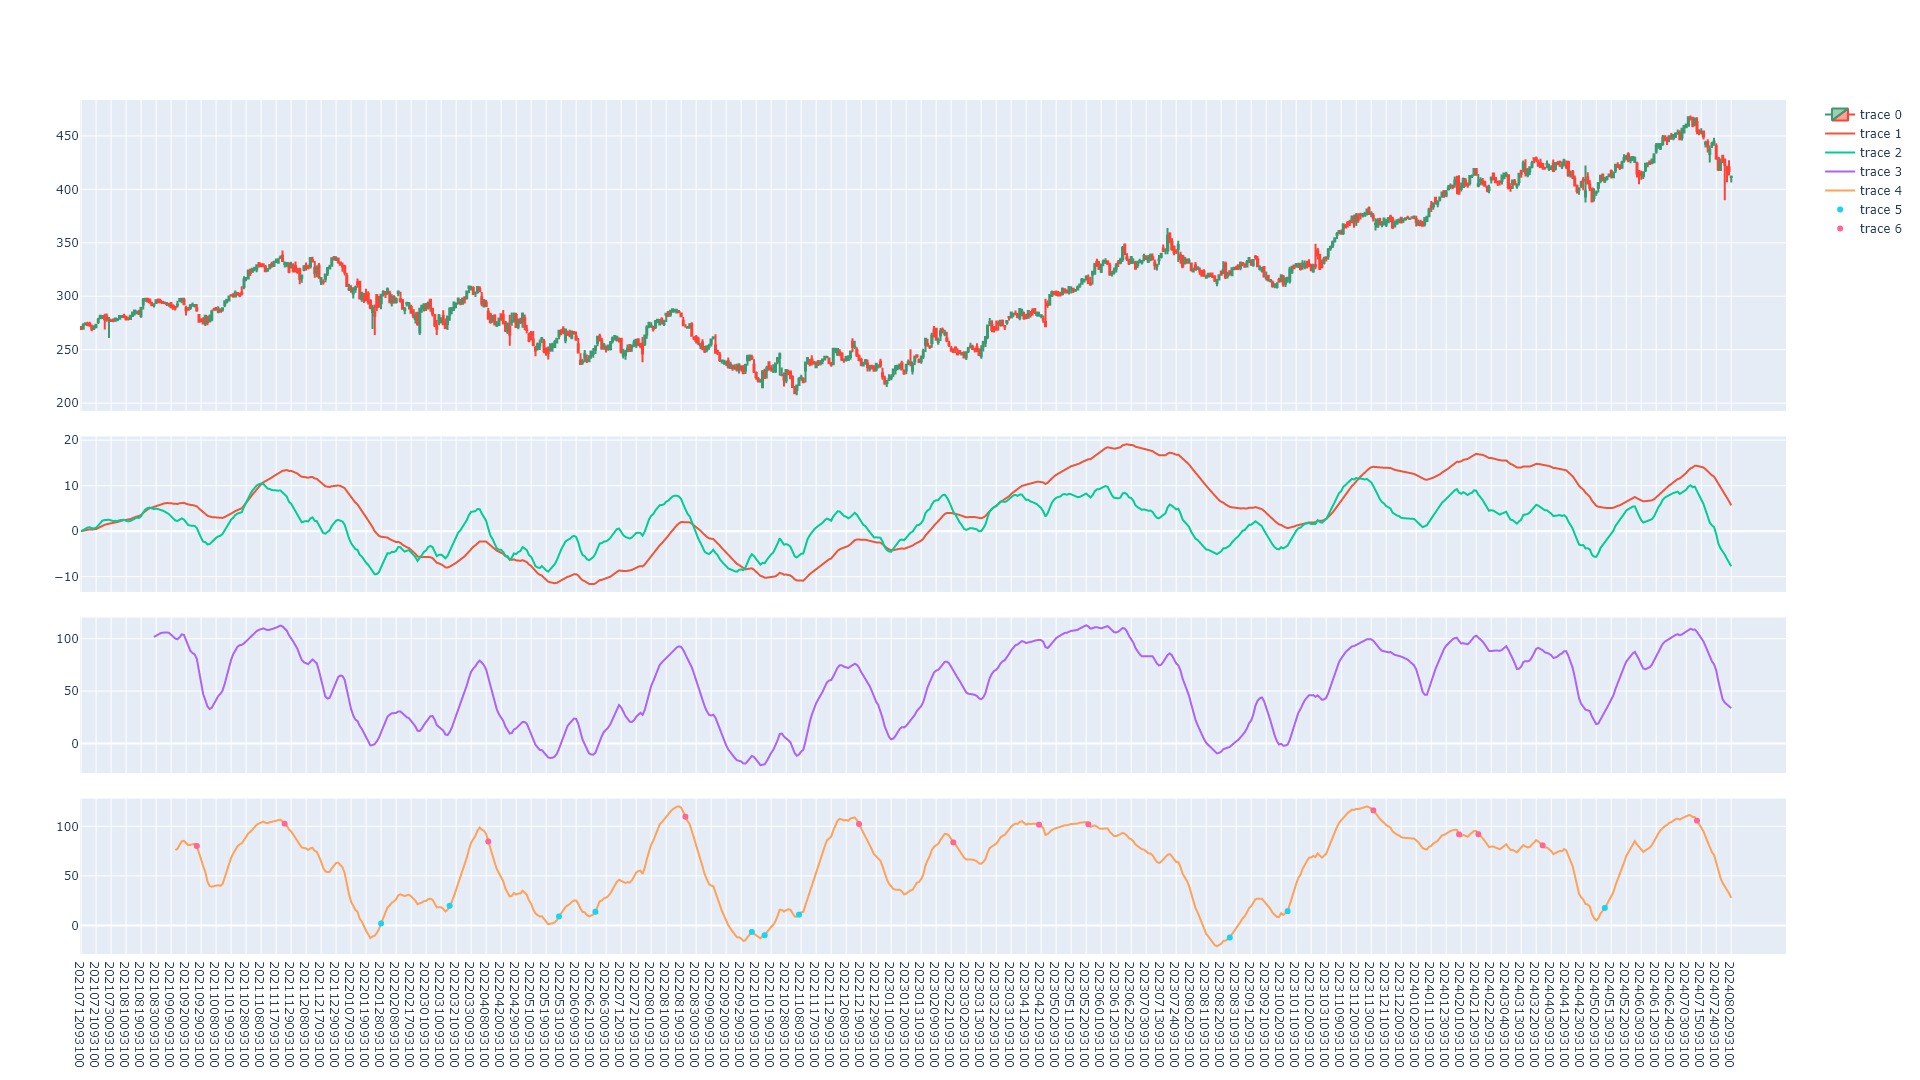
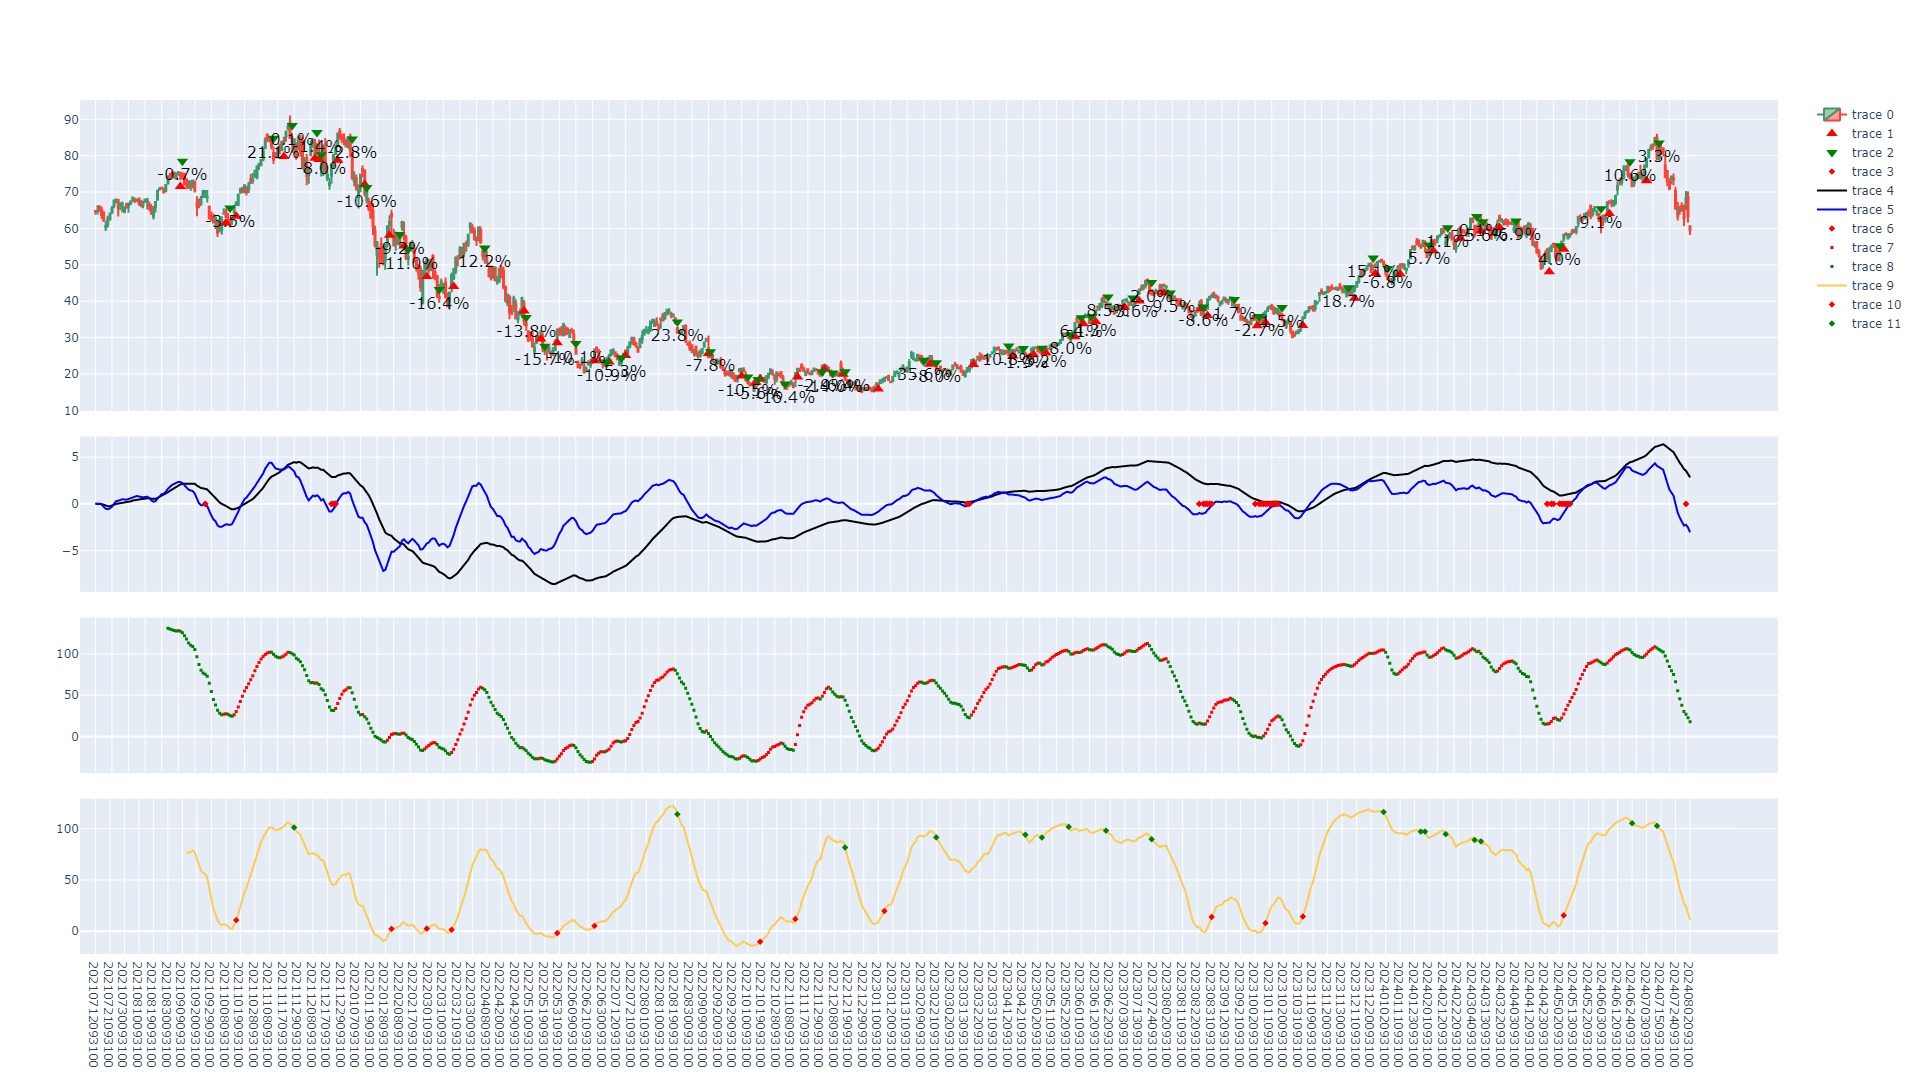
画图完善

diff --git a/macd_jw_duan.py b/macd_jw_duan.py
@@ -1,3 +1,4 @@
+import numpy as np
 from MyTT import *
 import plotly.graph_objects as go
 import pandas as pd
@@ -92,12 +93,12 @@ def is_neg(data, i, col, length):
 
 
 def double_macd(data, short1=55, long1=89, m1=1, short2=13, long2=21, m2=1):
-    m1 = MACD(data.close, short1, long1, m1)
-    m2 = MACD(data.close, short2, long2, m2)
-    data["m1"] = m1[0]
-    data["m2"] = m2[0]
-    macd_buy_sig = (m2>0) & (m1<0) & (m2<REF(m2,1))
-    macd_sell_sig = (m2<0) &(m1>0) & (m2>REF(m2,1))
+    m1 = MACD(data.close, short1, long1, m1)[0]
+    m2 = MACD(data.close, short2, long2, m2)[0]
+    data["m1"] = m1
+    data["m2"] = m2
+    macd_sell_sig = (m2 > 0) & (m1 < 0) & (m2 < REF(m2, 1))
+    macd_buy_sig = (m2 < 0) & (m1 > 0) & (m2 > REF(m2, 1))
     data['macd_buy_signal'] = macd_buy_sig
     data['macd_sell_signal'] = macd_sell_sig
     return data
@@ -120,8 +121,8 @@ def jw(data):
     jw_sell_signal = (JW >= 80) & (JW < MAJW) & (REF(JW, 1) > REF(MAJW, 1))
     jw_buy_signal = (JW < 20) & (JW > MAJW) & (REF(JW, 1) < REF(MAJW, 1))
     data["jw"] = JW
-    data['jw_sell_signal'] = jw_sell_signal
     data['jw_buy_signal'] = jw_buy_signal
+    data['jw_sell_signal'] = jw_sell_signal
     return data
 
 
@@ -140,8 +141,8 @@ def duanxian(data):
         R6 = B5 - B2
         data["R6"] = R6
         data["duanxian"] = data["R6"].diff()
-        duanxian_bug_sig = data["R6"]>0
-        duanxian_sell_sig = data["R6"]<=0
+        duanxian_bug_sig = data["duanxian"] > 0
+        duanxian_sell_sig = data["duanxian"] <= 0
         data["duanxian_buy_signal"] = duanxian_bug_sig
         data["duanxian_sell_signal"] = duanxian_sell_sig
         return data
@@ -157,7 +158,7 @@ def draw_line_jw_duanxian(data):
         shared_xaxes=True,
         vertical_spacing=0.03,
         subplot_titles=(""),
-        row_width=[1, 1,1,2],
+        row_width=[1, 1, 1, 2],
     )
 
     kline_1D = go.Candlestick(
@@ -168,28 +169,74 @@ def draw_line_jw_duanxian(data):
         close=data["close"],
     )
 
-    jw_buy_sig = data[data.jw_buy_signal>0].reset_index(drop=True)
+    jw_buy_sig = data[data.jw_buy_signal > 0].reset_index(drop=True)
     jw_sell_sig = data[data.jw_sell_signal > 0].reset_index(drop=True)
-
+    macd_buy_signal = data[data.macd_buy_signal > 0].reset_index(drop=True)
+    macd_sell_signal = data[data.macd_sell_signal > 0].reset_index(drop=True)
+    huice_long_buy = data[data.huice_long_buy > 0].reset_index(drop=True)
+    huice_long_sell = data[data.huice_long_sell > 0].reset_index(drop=True)
     fig.add_trace(kline_1D, row=1, col=1)
-    fig.add_trace(go.Scatter(x=data["dt_period"], y=data["m1"]), row=2, col=1)
-    fig.add_trace(go.Scatter(x=data["dt_period"], y=data["m2"]), row=2, col=1)
-    # fig.add_trace(go.Scatter(x=data["dt_period"], y=data['R6'],marker=dict(color=np.where(data['duanxian'] > 0, 'red', 'green'))), row=3, col=1)
-    fig.add_trace(go.Scatter(x=data[data.duanxian>=0]["dt_period"], y=data[data.duanxian>=0]['R6'],mode="markers",marker=dict(symbol = 'square',color='red',size=3)), row=3, col=1)
-    fig.add_trace(go.Scatter(x=data[data.duanxian<0]["dt_period"], y=data[data.duanxian<0]['R6'],mode="markers",marker=dict(symbol = 'square',color='green',size=3)), row=3, col=1)
+    fig.add_trace(
+        go.Scatter(
+            x=huice_long_buy["dt_period"], y=huice_long_buy['open'] * 0.95, mode="markers",
+            marker=dict(symbol='triangle-up', color='red', size=10)
+        ),
+        row=1,
+        col=1,
+    )
+    fig.add_trace(
+        go.Scatter(
+            x=huice_long_sell["dt_period"], y=huice_long_sell['open'] * 1.05, mode="markers+text",
+            marker=dict(symbol='triangle-down', color='green', size=10), text=[
+                "{:.1f}%".format(p * 100)
+                for p in np.array(huice_long_sell["profit_rate"])
+            ],
+            textposition="bottom center",
+            textfont=dict(size=16, color="black")
+        ),
+        row=1,
+        col=1,
+    )
 
+    fig.add_trace(
+        go.Scatter(
+            x=macd_buy_signal["dt_period"], y=[0] * len(macd_buy_signal), mode="markers",
+            marker=dict(symbol='diamond', color='red', size=5)
+        ),
+        row=2,
+        col=1,
+    )
+
+    fig.add_trace(go.Scatter(x=data["dt_period"], y=data["m1"], marker=dict(color='black')), row=2, col=1)
+    fig.add_trace(go.Scatter(x=data["dt_period"], y=data["m2"], marker=dict(color='blue')), row=2, col=1)
+
+    fig.add_trace(
+        go.Scatter(
+            x=macd_buy_signal["dt_period"], y=[0] * len(macd_buy_signal), mode="markers",
+            marker=dict(symbol='diamond', color='red', size=5)
+        ),
+        row=2,
+        col=1,
+    )
+    # fig.add_trace(go.Scatter(x=data["dt_period"], y=data['R6'],marker=dict(color=np.where(data['duanxian'] > 0, 'red', 'green'))), row=3, col=1)
+    fig.add_trace(go.Scatter(x=data[data.duanxian >= 0]["dt_period"], y=data[data.duanxian >= 0]['R6'], mode="markers",
+                             marker=dict(symbol='square', color='red', size=3)), row=3, col=1)
+    fig.add_trace(go.Scatter(x=data[data.duanxian < 0]["dt_period"], y=data[data.duanxian < 0]['R6'], mode="markers",
+                             marker=dict(symbol='square', color='green', size=3)), row=3, col=1)
 
     fig.add_trace(go.Scatter(x=data["dt_period"], y=data['jw']), row=4, col=1)
     fig.add_trace(
         go.Scatter(
-            x=jw_buy_sig["dt_period"], y=jw_buy_sig['jw'], mode="markers"
+            x=jw_buy_sig["dt_period"], y=jw_buy_sig['jw'], mode="markers",
+            marker=dict(symbol='diamond', color='red', size=5)
         ),
         row=4,
         col=1,
     )
     fig.add_trace(
         go.Scatter(
-            x=jw_sell_sig["dt_period"], y=jw_sell_sig['jw'], mode="markers"
+            x=jw_sell_sig["dt_period"], y=jw_sell_sig['jw'], mode="markers",
+            marker=dict(symbol='diamond', color='green', size=5)
         ),
         row=4,
         col=1,
@@ -197,15 +244,47 @@ def draw_line_jw_duanxian(data):
 
     fig.update_layout(xaxis_rangeslider_visible=False)
     # fig.show()
-    fig.write_image("./data_huice_dm/"  + "macd_jw_duan_debug_fig.jpg",width=1920,height=1080)
+    fig.write_image("./data_huice_dm/" + "macd_jw_duan_debug_fig.jpg", width=1920, height=1080)
     # macd_in_signals = data[data.long_in > 0].reset_index(drop=True)
 
 
+def merge_macd_duanxian(data):
+    # 采用macd和短线同时出现信号的时候进行开仓
+    data['macd_duanxian'] = data['macd_buy_signal'].astype(int) + data['duanxian_buy_signal'].astype(int)
+    data['macd_duanxian_buy_signal'] = (data['macd_buy_signal'].astype(int) + data['duanxian_buy_signal'].astype(
+        int)) >= 2
+    data['duanxian_buy_signal_2'] = data['duanxian'].astype(int)
+    return data
 
+
+def huice(data, in_sig_col='macd_duanxian_buy_signal', out_sig_col='duanxian_sell_signal'):
+    # 找到连续买信号的起点作为买点
+    in_indexs = data[data[in_sig_col] > 0].index
+    in_indexs_starts = []
+    for index in in_indexs:
+        if index - 1 not in in_indexs:
+            in_indexs_starts.append(index)
+    # 找离买点最近的卖点
+    in_indexs_starts.reverse()
+    out_indexs = []
+    profit_rates = []
+    for index in in_indexs_starts:
+        for j in range(index, len(data)):
+            if data.loc[j, out_sig_col] > 0:
+                out_indexs.append(j)
+                profit_rates.append(data.loc[j + 1, 'open'] / data.loc[index + 1, 'open'] - 1)
+                break
+            if j == len(data) - 1:
+                out_indexs.append(-1)
+                profit_rates.append(0)
+    data.loc[np.array(in_indexs_starts) + 1, 'huice_long_buy'] = 1
+    data.loc[np.array(out_indexs) + 1, 'huice_long_sell'] = 1
+    data.loc[np.array(out_indexs) + 1, 'profit_rate'] = np.array(profit_rates)
+    return data
 
 
 if __name__ == "__main__":
-    codes = ['MSFT']
+    codes = ['TQQQ']
     # codes = ['TQQQ','TSLA','MSFT','AAPL','AMD','BABA','GOOGL','NVDA','PDD']
     for code in codes:
         # 390min是一天，多天的就按分钟计算好了
@@ -213,5 +292,8 @@ if __name__ == "__main__":
         data = double_macd(data, 36, 78, 1, 12, 26, 1)
         data = jw(data)
         data = duanxian(data)
-        # draw_line_jw_duanxian(data)
+        data = merge_macd_duanxian(data)
+        data = huice(data,'duanxian_buy_signal','duanxian_sell_signal')
+        draw_line_jw_duanxian(data)
         print(1)
+        print(data.profit_rate.sum())
